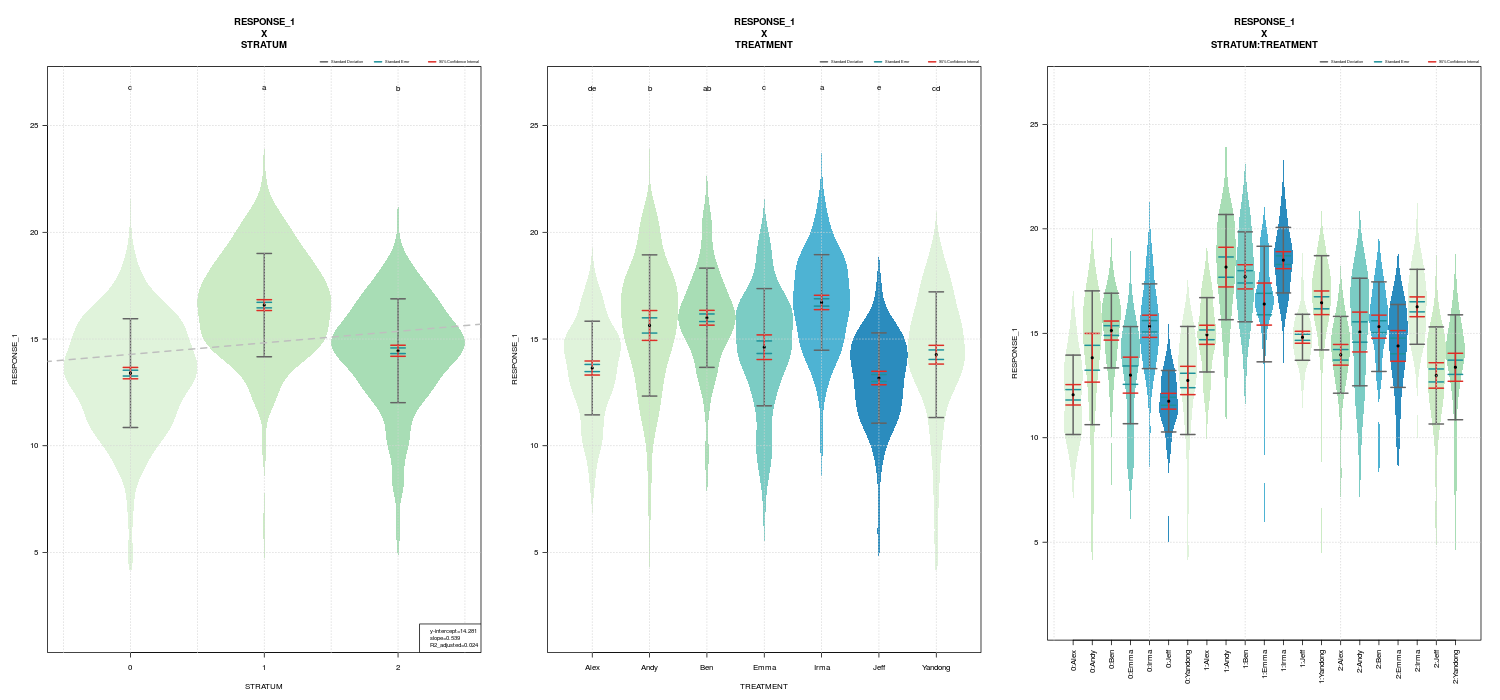
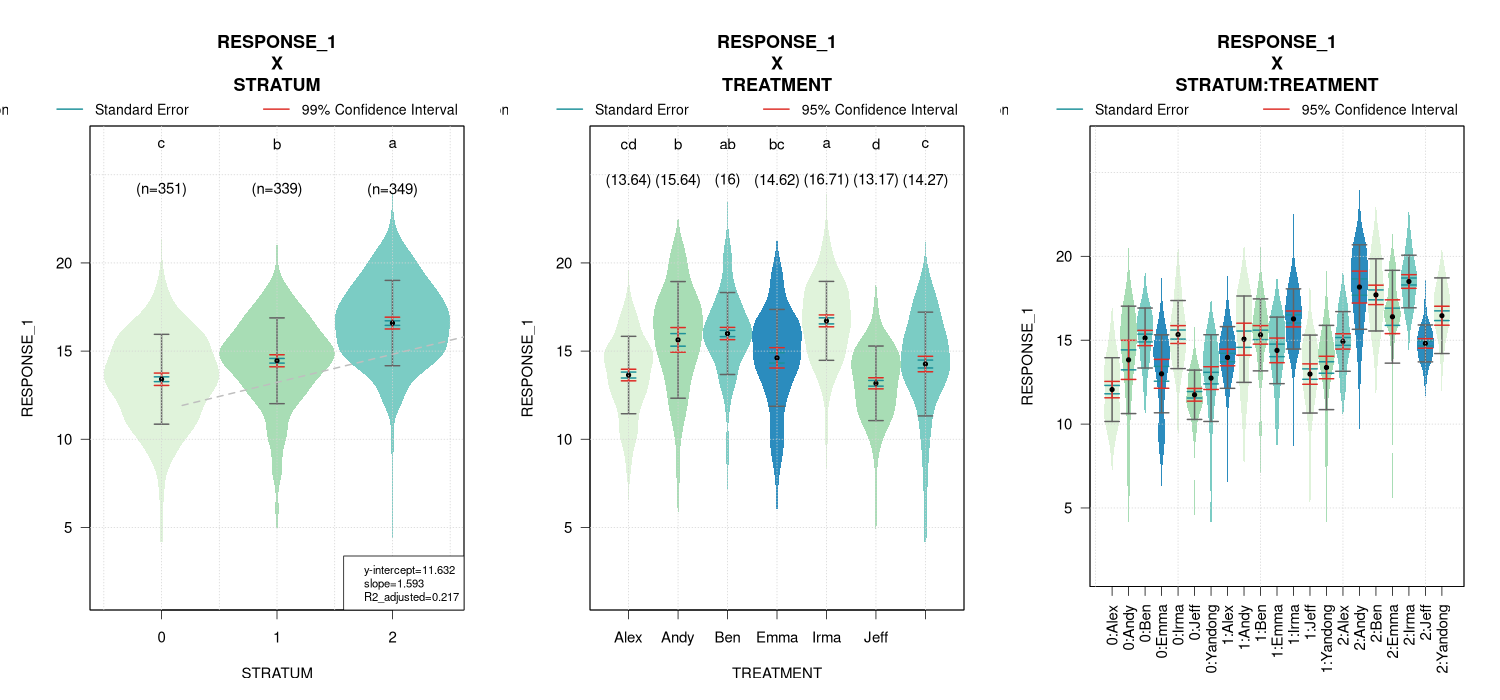
fising error bar legends

diff --git a/cran-comments.md b/cran-comments.md
@@ -1,10 +1,10 @@
 ## Reason for update
-Adding nonparametric pairwise mean comparison using Mann-Whitney test, in addition to the existing parametric Tukey's honest significant difference.
+Bugfix: rectifying inconcise groupings based on significant pairwise differences
 
 ## Test environments
-R version 4.1.0 (2021-05-18)
+R version 4.2.0 (2022-04-22)
 Platform: x86_64-pc-linux-gnu (64-bit)
-Running under: UUbuntu 21.04
+Running under: Manjaro 5.16.20-2
 
 ## R CMD check results
 There were no ERRORs or WARNINGs.

diff --git a/misc/README_for_CRAN_submission.md b/misc/README_for_CRAN_submission.md
@@ -21,8 +21,11 @@ devtools::document()
 
 ### Check R-hub
 ```
-devtools::check_rhub()
-# rhub::validate_email(email = "jeffersonparil@gmail.com", token = "2ea6e47d16274a32a4cca5f744e5f20") ### if token is unavailable
+rhub::validate_email(email="jeffersonparil@gmail.com", token="6e4f2f593e0d4f328ec479648e23cee1")
+rhub::validate_email()
+# then select the email
+# wait for the email with the new token and paste the new token
+devtools::check_rhub(platforms="solaris-x86-patched")
 ```
 
 ### Check win-builder

diff --git a/NEWS.md b/NEWS.md
@@ -1,4 +1,4 @@
 # News
-## Version 3.0.0
+## Version 3.0.1
 
-This is a major release where we added a nonparametric mean comparison - Mann-Whitney test, and setting this as the default method instead of Tukey's honest significant difference.
+Bug fix: rectifying non-concise groupings based on significant pairwise differences
